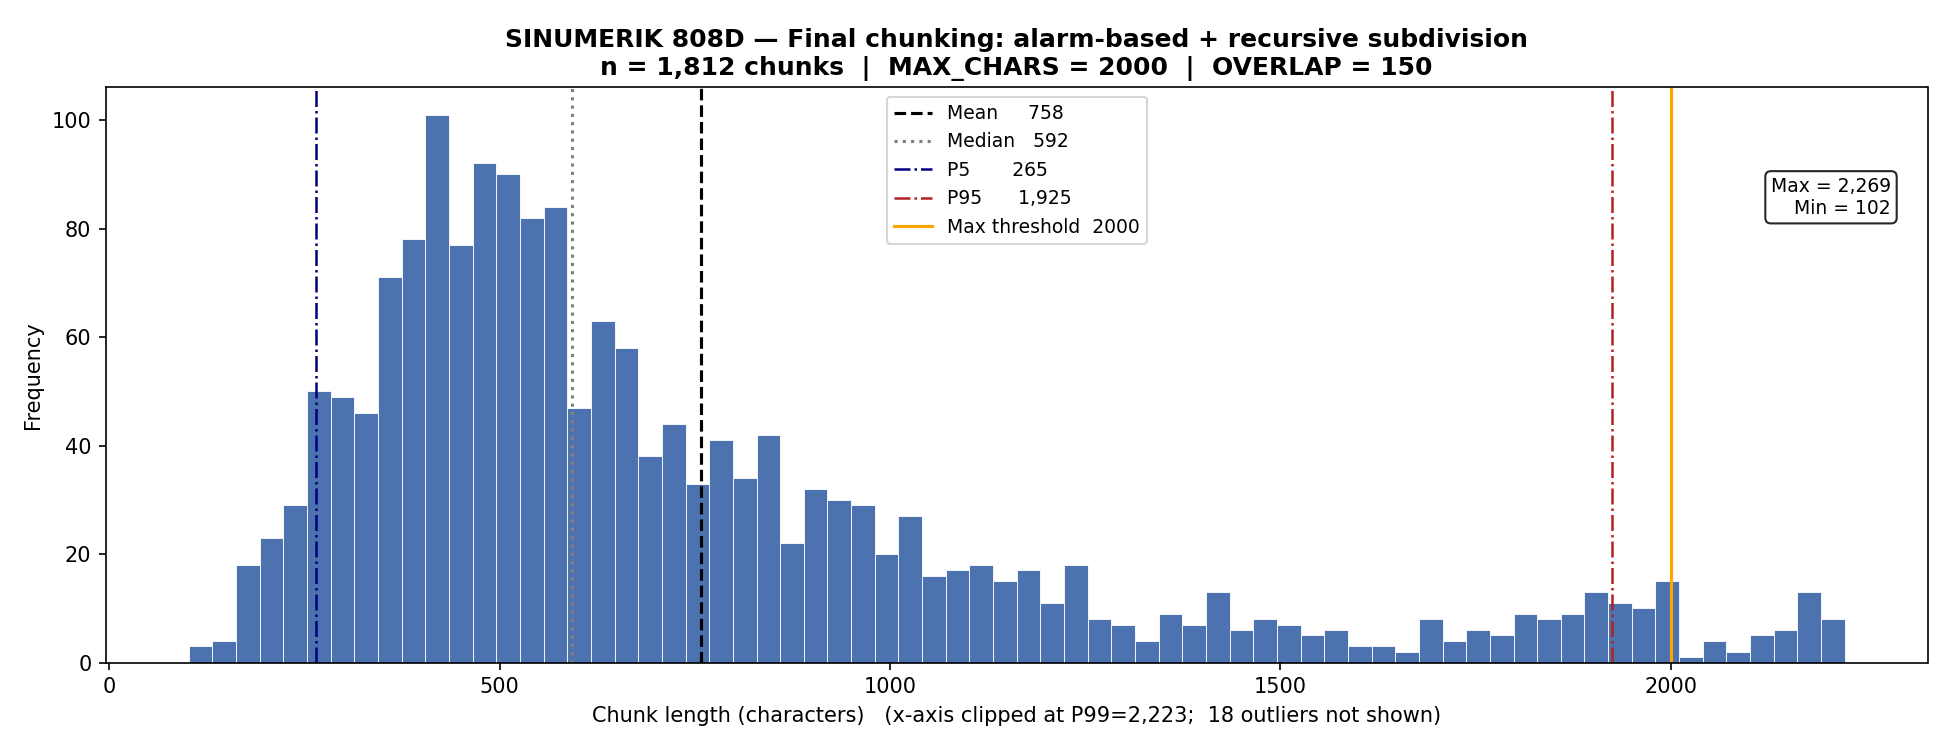
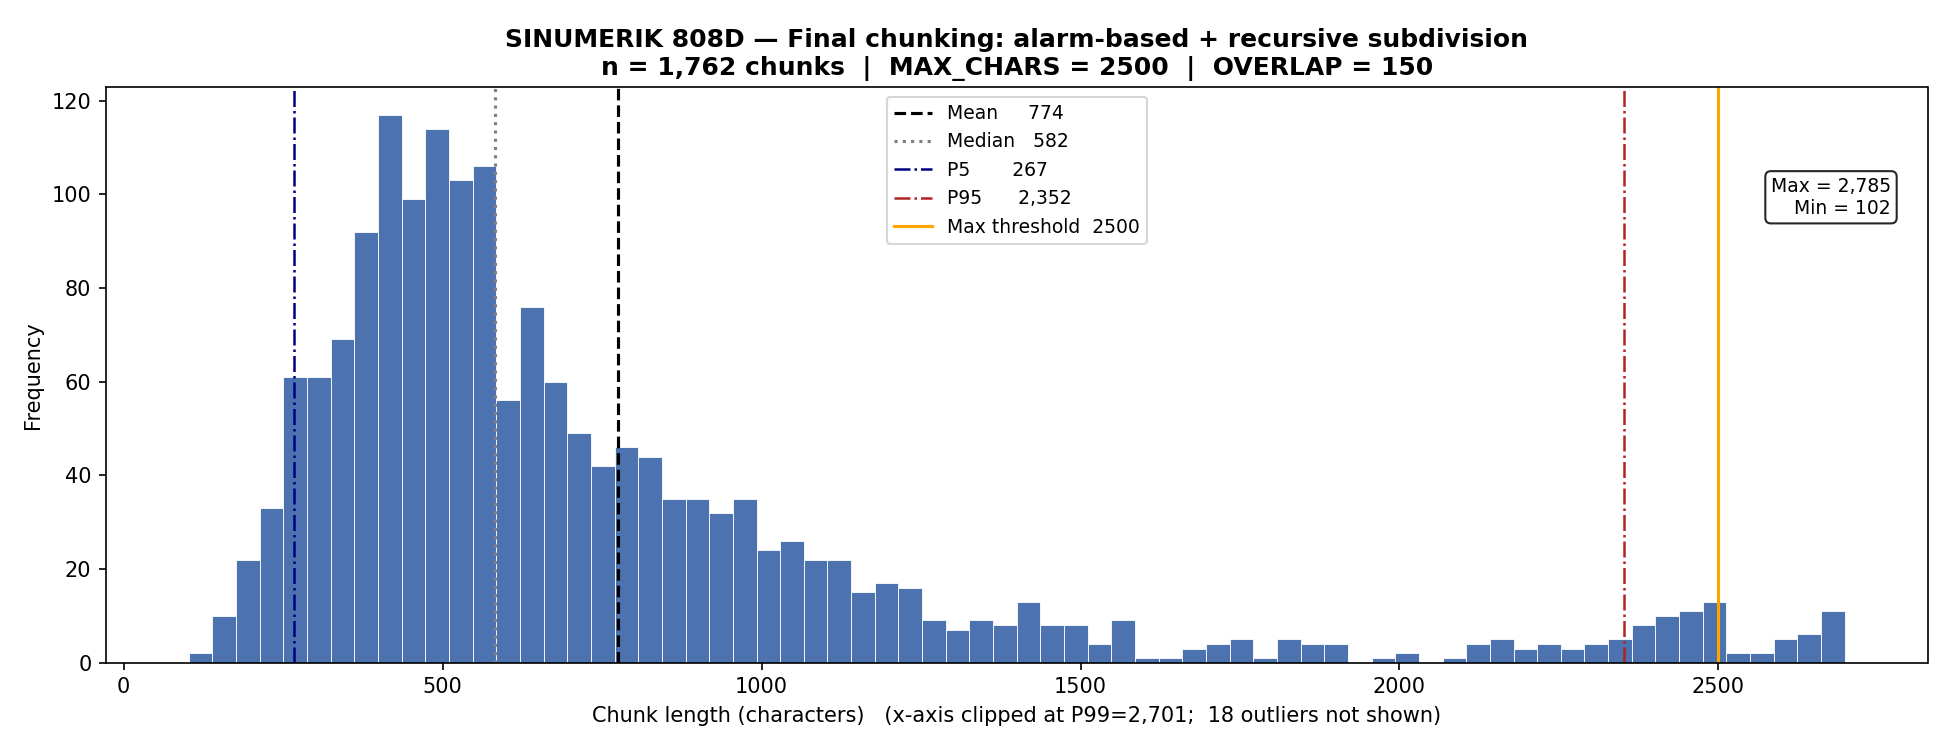
actualizado CHUNKING.md

diff --git a/docs/CHUNKING.md b/docs/CHUNKING.md
@@ -81,23 +81,21 @@ RAG_CHUNK_MAX_CHARS=2500
 RAG_CHUNK_OVERLAP_CHARS=150
 ```
 
-El flujo interno es:
+### Paso 1 — Alarm-based split
 
-1. Leer el Markdown del manual.
-2. Detectar limites de alarma mediante expresiones regulares sobre encabezados
-   numericos y numeros en negrita.
-3. Separar cada alarma como unidad documental.
-4. Si una alarma supera el limite de caracteres, subdividir por campos
-   tecnicos: `Parameters`, `Explanation`, `Reaction`, `Remedy` y
-   `Programm continuation`.
-5. Si un campo sigue siendo demasiado grande, aplicar split recursivo por
-   parrafo, linea y palabra.
-6. Inyectar el encabezado de alarma en los subchunks de continuacion.
-7. Devolver objetos `DocumentChunk` con `chunk_id`, texto, seccion, lineas,
-   `word_count` y `content_sha256`.
+Se divide el documento completo usando una expresión regular con **lookahead** sobre los tres formatos de encabezado de alarma.
 
-El prefijo de continuacion permite que un subchunk recuperado de forma aislada
-mantenga el codigo de alarma:
+El lookahead garantiza que el delimitador queda dentro del chunk (no se pierde el encabezado de la alarma). Resultado: **1,649 chunks**, de los cuales **26 (1.6%) superan los 2,500 caracteres**.
+
+### Paso 2 — Subdivisión recursiva de chunks grandes (> 2,500 chars)
+
+Para los 26 chunks que superan el umbral se aplica una subdivisión distinta según si el chunk tiene o no estructura de alarma.
+
+**Chunks con estructura de alarma:**
+
+1. Se intenta dividir primero en los **límites de campo** semánticos de la alarma (`**Explanation:**`, `**Reaction:**`, `**Remedy:**`, `**Programm continuation:**`), que son las fronteras más naturales dentro de una entrada.
+2. Si algún campo sigue siendo demasiado grande, se aplica un **splitter recursivo en cascada** con prioridad decreciente de separadores: párrafo (`\n\n`) → línea (`\n`) → palabra (` `).
+3. **Preservación del contexto:** cada sub-chunk de continuación recibe el encabezado de la alarma original inyectado como prefijo, más los últimos 150 caracteres del sub-chunk anterior como solapamiento. Esto garantiza que un sub-chunk recuperado de forma aislada siempre identifica a qué alarma pertenece:
 
 ```text
 ## 25000 Axis %1 hardware fault of active encoder [cont. 1/2]
@@ -106,6 +104,9 @@ mantenga el codigo de alarma:
 
 **Remedy:** ...
 ```
+
+**Chunks sin estructura de alarma** (prefacio, introducciones de capítulo): se aplica directamente el splitter recursivo en cascada sin inyección de cabecera.
+
 
 ## JSONL canonico
 
@@ -124,17 +125,18 @@ Estadisticas del JSONL canonico:
 | Metrica | Valor |
 |---|---:|
 | Numero de chunks | 1,762 |
-| Media de caracteres | 774.4 |
-| Mediana de caracteres | 581.5 |
+| Media de caracteres | 774 |
+| Mediana de caracteres | 582 |
 | Minimo de caracteres | 102 |
 | Maximo de caracteres | 2,785 |
-| P95 de caracteres | 2,349 |
+| P5 de caracteres | 267 |
+| P95 de caracteres | 2,352 |
 | Chunks > 2,500 caracteres | 44 |
-| Media de palabras | 115.7 |
+| Media de palabras | 116 |
 | Mediana de palabras | 89 |
 
-Los pocos chunks que superan ligeramente el limite lo hacen por la inyeccion de
-cabecera y solapamiento, o por lineas tecnicas sin separadores naturales.
+Los 44 chunks que superan ligeramente el limite lo hacen por la inyeccion de
+cabecera y solapamiento, o por lineas individuales sin separadores naturales.
 
 ![Distribucion final de chunks](assets/chunking/chunk_final_analysis.png)
 
